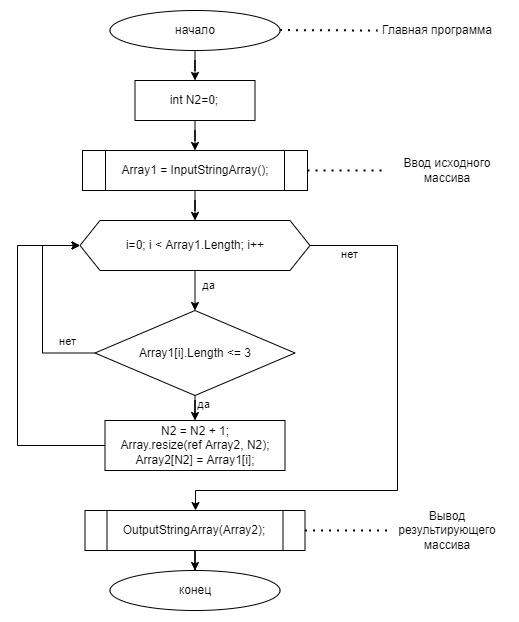
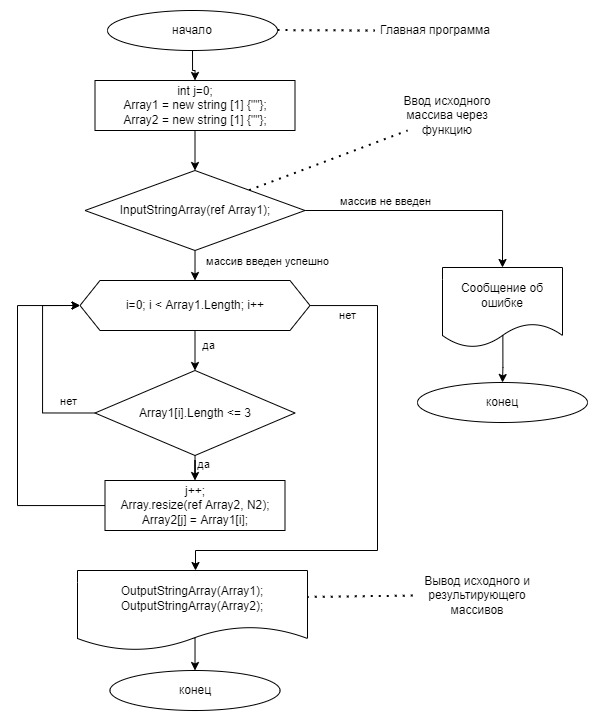
Написана основная программа. Внесены изменения в блок-схему и описание программы

diff --git a/block1/task_result/Program.cs b/block1/task_result/Program.cs
@@ -5,20 +5,32 @@
 лучше обойтись исключительно массивами.
 
 Примеры:
-[“Hello”, “2”, “world”, “:-)”] → [“2”, “:-)”]
-[“1234”, “1567”, “-2”, “computer science”] → [“-2”]
-[“Russia”, “Denmark”, “Kazan”] → []
+["Hello", "2", "world", ":-)"] → ["2", ":-)"]
+["1234", "1567", "-2", "computer science"] → ["-2"]
+["Russia", "Denmark", "Kazan"] → []
 */
 
-string [] InputStringArray()
+string[] ResizeArray(string[] srcArray, int newSize)
 {
-    string [] srcArray;
+    string[] resArray = new string[newSize];
+    for (int i = 0; i < newSize; i++)
+    {
+        if (i >= srcArray.Length)
+            resArray[i] = "";
+        else
+            resArray[i] = srcArray[i];
+    }
+    return resArray;
+}
+
+bool InputStringArray(ref string[] srcArray)
+{
     string srcString = string.Empty;
-    int N = 0;
+    int N = -1;
     while (true)
     {
-        Console.WriteLine($"Введите {N}-ю строку текста для исходного массива строк. Нажмите q для окончания ввода.");
-        srcString = Console.ReadLine();
+        Console.WriteLine($"Введите {N + 1}-ю строку текста для исходного массива строк. Нажмите q для окончания ввода.");
+        srcString=Console.ReadLine();
         if (srcString.ToUpper() == "Q")
         {
             break;
@@ -26,11 +38,15 @@ string [] InputStringArray()
         else
         {
             N++;
-            Array.Resize(ref srcArray, N);
-            srcArray[N]=srcString;
+            srcArray = ResizeArray(srcArray, N+1);
+            srcArray[N] = srcString;
         }
     }
-    return srcArray;
+
+    if (N < 0)
+        return false;
+    else
+        return true;
 }
 
 string OutputStringArray(string[] srcArray)
@@ -44,4 +60,26 @@ string OutputStringArray(string[] srcArray)
     }
     str += "]";
     return str;
+}
+
+string[] Array1 = new string[1] { "" };
+int j = -1;
+string[] Array2 = new string[1] { "" };
+
+if (InputStringArray(ref Array1))
+{
+    for (int i = 0; i < Array1.Length; i++)
+    {
+        if (Array1[i].Length <= 3)
+        {
+            j++;
+            Array2 = ResizeArray(Array2, j + 1);
+            Array2[j] = Array1[i];
+        }
+    }
+    Console.WriteLine($"{OutputStringArray(Array1)} -> {OutputStringArray(Array2)}");
+}
+else
+{
+    Console.WriteLine("Исходный массив не введен! Выполнение программы прервано!");
 }

diff --git a/block1/task_result/Readme.md b/block1/task_result/Readme.md
@@ -1,24 +1,30 @@
 Описание решения
 
-Функция string InputStringArray();
+Функция bool InputStringArray(ref string[] srcArray)
 ----------------------------------
 Формирование исходного массива происходит в функции InputStringArray()
 В цикле вводится строка текста: проверяется не равна ли она Q (означает закончить ввод массива).
-Иначе строка добавляется в динамический массив SrcArray
-Расширение границы массива производится с помощью встроенной функции
-Array.Resize(ref SrcArray, new_size);
-Функция возвращает введенный массив SrcArray.
+Иначе строка добавляется в динамический массив SrcArray. Исходный массив передается по ссылке,
+поэтому он возвращается через параметр.
+Если массив сформирован без ошибок и не является пустым, то возвратается значение true,
+иначе false.
+Расширение границы массива производится с помощью разработанной функции ResizeArray()
 
-Функция OutputStringArray(string Array);
+
+Функция string[] ResizeArray(string[] srcArray, int newSize)
+-------------------------------
+SrcArray = ResizeArray(SrcArray, new_size);
+Функция возвращает массив c новым размером newSize, значения бывших элементов сохраняются. Новые элементы заполняются значением "".
+
+
+Функция string OutputStringArray(string Array);
 ----------------------------------------
-Данная функция выводит в консоль элементы массива Array. Элементы массива Array перебираются
-в цикле for от i=0 до i < Array.Length.
+Данная функция возвращает строку ввде значений элементов массива, перечисленных черех строку. В начале и в конце добавляются квадратные скобки.
+ Элементы массива Array перебираются в цикле for от i=0 до i < Array.Length.
+
 
 Главная программа
 -----------------
 В главной программе, массив введенный с помощью функции InputStringArray() присваивается массиву строк Array1.
-После ввода массива строк Array1 выводим его значения с помощью функции OutputStringArray(string Array);
-
 Далее в цикле проверяем длину элементов массива строк Array1. Если длина строки не более 3 символов, то элемент добавляется в динамический массив Array2. Перед добавлением элемента в массив Array2 его размер увеличивается на 1, с помощью функции Array.Resize(ref Array2, new_size);
-
-В конце выводим результирующий массив Array2 в консоль с помощью метода OutStringArray(string Array);
+В конце выводим исходный Array1 и результирующий массив Array2 в консоль с помощью метода OutStringArray(string Array);
